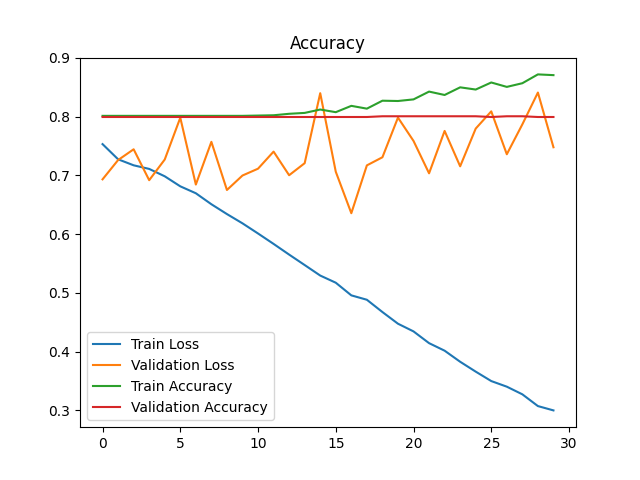
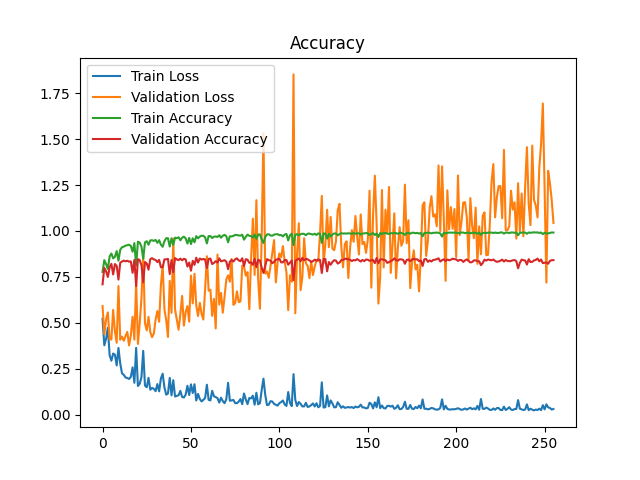
chore: Update train.py with new learning rate for CNNClassifier

diff --git a/train.py b/train.py
@@ -16,6 +16,7 @@ def train(model,train_dataloader,val_dataloader,criterion,optimizer,device,num_e
     train_accuracies=[]
     val_losses=[]
     val_accuracies=[]
+    max_accuracy=0
     
     model.train()
     model.to(device)
@@ -33,14 +34,18 @@ def train(model,train_dataloader,val_dataloader,criterion,optimizer,device,num_e
         # print(f'Epoch {epoch+1}/{num_epochs} Loss: {loss.item()}')
         train_accuracy, train_loss ,_= evaluate(model, train_dataloader,criterion,device)
         val_accuracy, val_loss ,fl_score= evaluate(model, val_dataloader,criterion,device)
+        max_accuracy=max(max_accuracy,val_accuracy)
         print(f'Train Accuracy: {train_accuracy} Train Loss: {train_loss}')
         print(f'validation Accuracy: {val_accuracy} validation Loss: {val_loss}')
         print(f'F1 Score: {fl_score}')
+        print(f'Max Accuracy acheived till now: {max_accuracy}')
         
         train_losses.append(train_loss)
         train_accuracies.append(train_accuracy)
         val_losses.append(val_loss)
         val_accuracies.append(val_accuracy)
+        
+        
         
         # Add L2 regularization
         # for param in model.parameters():
@@ -112,8 +117,8 @@ if __name__ == '__main__':
     hidden_dim = 100
     output_dim = 2 # 2 for SST2 dataset and 5 for electronics dataset   
     num_epochs = 256
-    learning_rate = 0.001 # use 0.001 for electronics dataset and 0.0025 for SST2 dataset
-    batch_size = 64 # use 32 for electronics dataset and 1024 for SST2 dataset
+    learning_rate = 0.0015 # use 0.001 for electronics dataset and 0.0025 for SST2 dataset
+    batch_size = 64# use 32 for electronics dataset and 1024 for SST2 dataset
     
     #Load the preprocessed data
     # X,y = load_data('data.csv', train_max_seq_length)
@@ -154,6 +159,9 @@ if __name__ == '__main__':
    
     criterion = nn.CrossEntropyLoss()
     optimizer = Adam(model.parameters(), lr=learning_rate)
+    # use adadealta optimizer as there is no need to set initial learning rate 
+    # optimizer = torch.optim.Adadelta(model.parameters(), rho=0.95, eps=1e-06, weight_decay=0)
+    
     
     print("Training the model")
     train(model,train_dataloader,val_dataloader,criterion,optimizer,device,num_epochs=num_epochs)

diff --git a/readme.md b/readme.md
@@ -131,6 +131,6 @@ Results on SST2-dataset for different hyper-parameter and model  configurations
 | Emb-dim | lr     | Epochs | batch_size | Dropout | model         | Val-loss | Val-accuracy | Test-accuracy | F1-score |
 | ------- | ------ | ------ | ---------- | ------- | ------------- | -------- | ------------ | ------------- | -------- |
 | 300     | 0.002  | 20     | 256        | 0.5     | CNNClassifier | 0.42     | 82.91%       |               | 0.826    |
-| 300     | 0.001  | 20     | 64         | 0.5     | CNNClassifier | 0.38     | 85.77%       | 85.57%        | 0.8516   |
+| 300     | 0.001  | 20     | 64         | 0.5     | CNNClassifier | 0.38     | 85.77%       | 85.72%        | 0.8516   |
 | 300     | 0.0001 | 30     | 64         | 0.5     | CNNClassifier | 0.39     | 84.17%       |               | 0.830    |
 | 300     | 0.0009 | 30     | 64         | 0.5     | CNNClassifier | 0.46     | 85.1%        |               | 0.845    |
